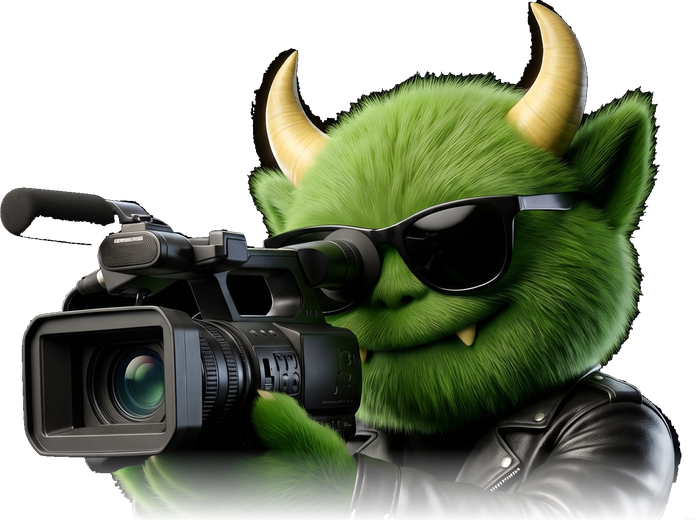
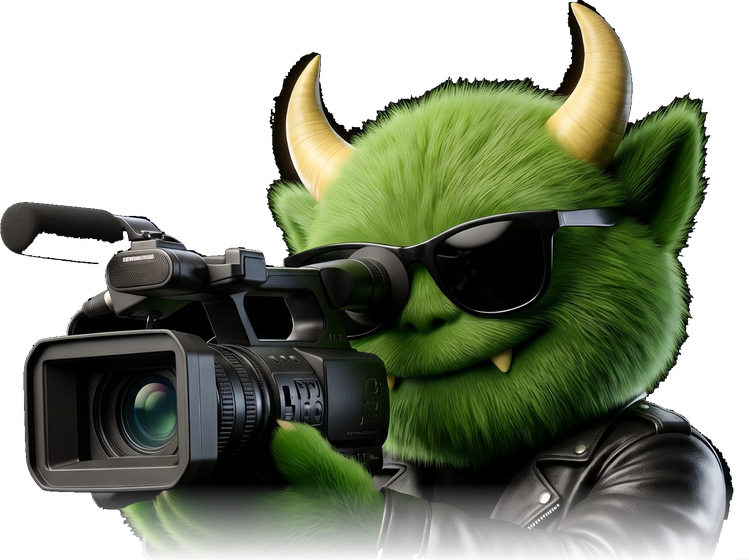
Free the microphone from the cutout, and let the mascot break out on phones too
Filling every enclosed hole also filled the gap between the shotgun mic and the
camera handle, leaving a black slab of background hanging above the rig. Only
holes below a size threshold are filled now, so dark spots inside the leather
close while genuine see-through gaps stay transparent.

On narrow screens the figure stacks above the text rather than sitting beside
it, which lets it overhang the strip the way it does on desktop without
squeezing the headline into two words a line.

Changed region(s): [[0.0905, 0.4615, 0.1207, 0.4923], [0.0302, 0.4308, 0.0603, 0.4615]]

diff --git a/offline.html b/offline.html
@@ -102,12 +102,12 @@ src="https://www.facebook.com/tr?id=771478541518631&ev=PageView&noscript=1"></no
 <meta name="twitter:card" content="summary_large_image">
 <link rel="preconnect" href="https://cdn.jsdelivr.net">
 <link href="https://fonts.googleapis.com/css2?family=Unbounded:wght@800&display=swap" rel="stylesheet">
-<link rel="stylesheet" href="css/style.css?v=03f0d46-11">
-<link rel="stylesheet" href="css/mobile.css?v=03f0d46-11">
-<link rel="stylesheet" href="css/sub.css?v=03f0d46-11">
-<link rel="stylesheet" href="css/offline.css?v=03f0d46-11">
-<link rel="stylesheet" href="css/offline-plan.css?v=03f0d46-11">
-<link rel="stylesheet" href="css/offline-blocks.css?v=03f0d46-11">
+<link rel="stylesheet" href="css/style.css?v=d86b17d-12">
+<link rel="stylesheet" href="css/mobile.css?v=d86b17d-12">
+<link rel="stylesheet" href="css/sub.css?v=d86b17d-12">
+<link rel="stylesheet" href="css/offline.css?v=d86b17d-12">
+<link rel="stylesheet" href="css/offline-plan.css?v=d86b17d-12">
+<link rel="stylesheet" href="css/offline-blocks.css?v=d86b17d-12">
 <script type="application/ld+json">
 {
   "@context": "https://schema.org",
@@ -127,7 +127,7 @@ src="https://www.facebook.com/tr?id=771478541518631&ev=PageView&noscript=1"></no
   }
 }
 </script>
-  <script src="/js/measure.js?v=03f0d46-11" defer></script>
+  <script src="/js/measure.js?v=d86b17d-12" defer></script>
 </head>
 <body>
 
@@ -189,7 +189,7 @@ src="https://www.facebook.com/tr?id=771478541518631&ev=PageView&noscript=1"></no
          「마감임박」을 손으로 적어두면 지나고도 안 고쳐서 거짓말이 된다.
          개강일이 지나면 스스로 사라진다. -->
     <div class="nt-urgent" id="nt-urgent" hidden>
-      <img class="face" src="assets/img/mascot-cam.png" alt="" width="696" height="520" aria-hidden="true">
+      <img class="face" src="assets/img/mascot-cam.png" alt="" width="749" height="560" aria-hidden="true">
       <div class="say">
         <span class="flare">마감 임박</span>
         <strong>19기 수강신청 <b>이번 주</b> 마감</strong>

diff --git a/reviews.html b/reviews.html
@@ -102,10 +102,10 @@ src="https://www.facebook.com/tr?id=771478541518631&ev=PageView&noscript=1"></no
 <meta name="twitter:card" content="summary_large_image">
 <link rel="preconnect" href="https://cdn.jsdelivr.net">
 <link href="https://fonts.googleapis.com/css2?family=Unbounded:wght@800&display=swap" rel="stylesheet">
-<link rel="stylesheet" href="css/style.css?v=03f0d46-11">
-<link rel="stylesheet" href="css/mobile.css?v=03f0d46-11">
-<link rel="stylesheet" href="css/sub.css?v=03f0d46-11">
-<link rel="stylesheet" href="css/reviews.css?v=03f0d46-11">
+<link rel="stylesheet" href="css/style.css?v=d86b17d-12">
+<link rel="stylesheet" href="css/mobile.css?v=d86b17d-12">
+<link rel="stylesheet" href="css/sub.css?v=d86b17d-12">
+<link rel="stylesheet" href="css/reviews.css?v=d86b17d-12">
 <script type="application/ld+json">
 {
  "@context": "https://schema.org",
@@ -498,7 +498,7 @@ src="https://www.facebook.com/tr?id=771478541518631&ev=PageView&noscript=1"></no
  ]
 }
 </script>
-  <script src="/js/measure.js?v=03f0d46-11" defer></script>
+  <script src="/js/measure.js?v=d86b17d-12" defer></script>
 </head>
 <body class="rv">
 

diff --git a/online.html b/online.html
@@ -102,10 +102,10 @@ src="https://www.facebook.com/tr?id=771478541518631&ev=PageView&noscript=1"></no
 <meta name="twitter:card" content="summary_large_image">
 <link rel="preconnect" href="https://cdn.jsdelivr.net">
 <link href="https://fonts.googleapis.com/css2?family=Unbounded:wght@800&display=swap" rel="stylesheet">
-<link rel="stylesheet" href="css/style.css?v=03f0d46-11">
-<link rel="stylesheet" href="css/mobile.css?v=03f0d46-11">
-<link rel="stylesheet" href="css/sub.css?v=03f0d46-11">
-<link rel="stylesheet" href="css/online.css?v=03f0d46-11">
+<link rel="stylesheet" href="css/style.css?v=d86b17d-12">
+<link rel="stylesheet" href="css/mobile.css?v=d86b17d-12">
+<link rel="stylesheet" href="css/sub.css?v=d86b17d-12">
+<link rel="stylesheet" href="css/online.css?v=d86b17d-12">
 <script type="application/ld+json">
 {
   "@context": "https://schema.org",
@@ -258,7 +258,7 @@ src="https://www.facebook.com/tr?id=771478541518631&ev=PageView&noscript=1"></no
   ]
 }
 </script>
-  <script src="/js/measure.js?v=03f0d46-11" defer></script>
+  <script src="/js/measure.js?v=d86b17d-12" defer></script>
 </head>
 <body>
 

diff --git a/works.html b/works.html
@@ -102,10 +102,10 @@ src="https://www.facebook.com/tr?id=771478541518631&ev=PageView&noscript=1"></no
 <meta name="twitter:card" content="summary_large_image">
 <link rel="preconnect" href="https://cdn.jsdelivr.net">
 <link href="https://fonts.googleapis.com/css2?family=Unbounded:wght@800&display=swap" rel="stylesheet">
-<link rel="stylesheet" href="css/style.css?v=03f0d46-11">
-<link rel="stylesheet" href="css/mobile.css?v=03f0d46-11">
-<link rel="stylesheet" href="css/sub.css?v=03f0d46-11">
-<link rel="stylesheet" href="css/works.css?v=03f0d46-11">
+<link rel="stylesheet" href="css/style.css?v=d86b17d-12">
+<link rel="stylesheet" href="css/mobile.css?v=d86b17d-12">
+<link rel="stylesheet" href="css/sub.css?v=d86b17d-12">
+<link rel="stylesheet" href="css/works.css?v=d86b17d-12">
 <script type="application/ld+json">
 {
   "@context": "https://schema.org",
@@ -167,7 +167,7 @@ src="https://www.facebook.com/tr?id=771478541518631&ev=PageView&noscript=1"></no
   ]
 }
 </script>
-  <script src="/js/measure.js?v=03f0d46-11" defer></script>
+  <script src="/js/measure.js?v=d86b17d-12" defer></script>
 </head>
 <body>
 

diff --git a/css/offline.css b/css/offline.css
@@ -742,14 +742,20 @@ svg.club-wordmark{
 @keyframes nt-blink{ 0%,100%{opacity:1} 50%{opacity:.4} }
 @media (prefers-reduced-motion: reduce){ .nt-urgent .flare{ animation:none } }
 
+/* 좁은 화면에서도 캐릭터가 띠 위로 솟게 둔다. 다만 옆으로 나란히 두면
+   글자가 눌리므로 캐릭터를 윗줄에 세우고 글은 아래로 내린다. */
 @media (max-width:680px){
   .off-notice .nt-urgent{
-    padding:10px 14px 12px; gap:9px; margin-bottom:18px;
+    flex-direction:column; align-items:center;
+    padding:0 14px 13px; gap:6px; margin-bottom:18px;
     border-radius:16px;
   }
-  .nt-urgent .face{ height:88px; margin-top:-42px; margin-bottom:-8px }
-  .nt-urgent .say{ gap:5px }
-  .nt-urgent strong{ font-size:16px; width:100% }
+  .nt-urgent .face{
+    height:118px; margin-top:-58px; margin-bottom:-2px;
+    align-self:center;
+  }
+  .nt-urgent .say{ gap:5px; padding-bottom:0 }
+  .nt-urgent strong{ font-size:16.5px; width:100% }
   .nt-urgent .flare{ font-size:11.5px }
   .nt-urgent .dday{ font-size:12px }
 }

diff --git a/curriculum.html b/curriculum.html
@@ -102,9 +102,9 @@ src="https://www.facebook.com/tr?id=771478541518631&ev=PageView&noscript=1"></no
 <meta name="twitter:card" content="summary_large_image">
 <link rel="preconnect" href="https://cdn.jsdelivr.net">
 <link href="https://fonts.googleapis.com/css2?family=Unbounded:wght@800&display=swap" rel="stylesheet">
-<link rel="stylesheet" href="css/style.css?v=03f0d46-11">
-<link rel="stylesheet" href="css/mobile.css?v=03f0d46-11">
-<link rel="stylesheet" href="css/curriculum.css?v=03f0d46-11">
+<link rel="stylesheet" href="css/style.css?v=d86b17d-12">
+<link rel="stylesheet" href="css/mobile.css?v=d86b17d-12">
+<link rel="stylesheet" href="css/curriculum.css?v=d86b17d-12">
 <script type="application/ld+json">
 {
   "@context": "https://schema.org",
@@ -139,7 +139,7 @@ src="https://www.facebook.com/tr?id=771478541518631&ev=PageView&noscript=1"></no
   ]
 }
 </script>
-  <script src="/js/measure.js?v=03f0d46-11" defer></script>
+  <script src="/js/measure.js?v=d86b17d-12" defer></script>
 </head>
 <body>
 

diff --git a/index.html b/index.html
@@ -82,8 +82,8 @@ src="https://www.facebook.com/tr?id=771478541518631&ev=PageView&noscript=1"></no
 <meta name="twitter:card" content="summary_large_image">
 <link rel="preconnect" href="https://cdn.jsdelivr.net">
 <link href="https://fonts.googleapis.com/css2?family=Unbounded:wght@800&display=swap" rel="stylesheet">
-<link rel="stylesheet" href="css/style.css?v=03f0d46-11">
-<link rel="stylesheet" href="css/mobile.css?v=03f0d46-11">
+<link rel="stylesheet" href="css/style.css?v=d86b17d-12">
+<link rel="stylesheet" href="css/mobile.css?v=d86b17d-12">
 
 <script type="application/ld+json">
 {
@@ -212,7 +212,7 @@ src="https://www.facebook.com/tr?id=771478541518631&ev=PageView&noscript=1"></no
   ]
 }
 </script>
-  <script src="/js/measure.js?v=03f0d46-11" defer></script>
+  <script src="/js/measure.js?v=d86b17d-12" defer></script>
 </head>
 <body>
 
